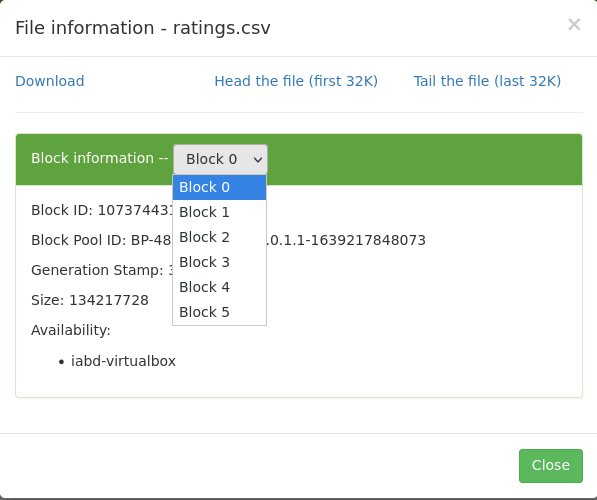
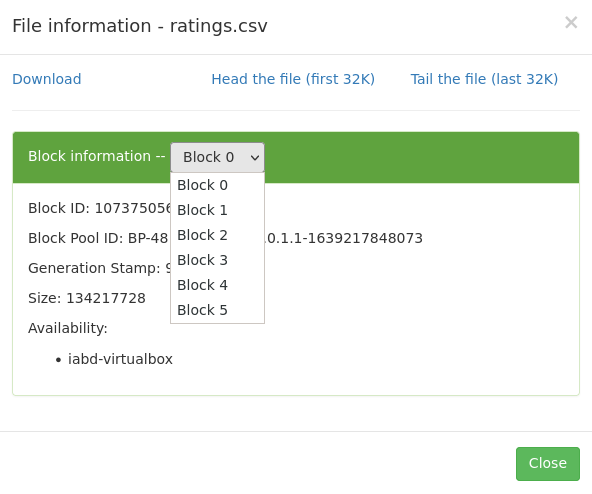
updated blockpool con archivo grande

diff --git a/docs/hadoop/04hdfs.md b/docs/hadoop/04hdfs.md
@@ -203,14 +203,39 @@ Una vez creado subimos el archivo con las calificaciones de las películas:
 hdfs dfs -put ratings.csv  /user/iabd/prueba-hdfs
 ```
 
-Con el fichero subido nos vamos al interfaz gráfico de Hadoop (<http://iabd-virtualbox:9870/explorer.html#/>), localizamos el archivo y obtenemos el *Block Pool ID* del *block information*:
+Si queremos saber cuantos bloques ha creado y cuanto ocupa cada uno de ellos, por ejemplo, podemos utilizar la utilidad `fsck` que permite comprobar la salud del sistema de archivos. Si le pasamos las opciones `-files` y `-blocks` nos mostrará información tanto de los archivos como de los bloques contenidos:
+
+``` bash hl_lines="7"
+iabd@iabd-virtualbox:$ hdfs fsck /user/iabd/prueba-hdfs -files -blocks
+Connecting to namenode via http://iabd-virtualbox:9870/fsck?ugi=iabd&files=1&blocks=1&path=%2Fuser%2Fiabd%2Fprueba-hdfs
+FSCK started by iabd (auth:SIMPLE) from /127.0.0.1 for path /user/iabd/prueba-hdfs at Sun Jan 22 18:11:45 CET 2023
+
+/user/iabd/prueba-hdfs <dir>
+/user/iabd/prueba-hdfs/ratings.csv 678260987 bytes, replicated: replication=1, 6 block(s):  OK
+0. BP-481169443-127.0.1.1-1639217848073:blk_1073750565_9750 len=134217728 Live_repl=1
+1. BP-481169443-127.0.1.1-1639217848073:blk_1073750566_9751 len=134217728 Live_repl=1
+2. BP-481169443-127.0.1.1-1639217848073:blk_1073750567_9752 len=134217728 Live_repl=1
+3. BP-481169443-127.0.1.1-1639217848073:blk_1073750568_9753 len=134217728 Live_repl=1
+4. BP-481169443-127.0.1.1-1639217848073:blk_1073750569_9754 len=134217728 Live_repl=1
+5. BP-481169443-127.0.1.1-1639217848073:blk_1073750570_9755 len=7172347 Live_repl=1
+
+
+Status: HEALTHY
+ Number of data-nodes:  1
+ Number of racks:               1
+ Total dirs:                    1
+ Total symlinks:                0
+...
+```
+
+Si queremos utilizar el interfaz gráfico de Hadoop (<http://iabd-virtualbox:9870/explorer.html#/>), tras localizar el archivo, obtenemos el *Block Pool ID* del *block information*:
 
 <figure style="align: center;">
     <img src="images/04hdfs-ratings-blockpoolid.png" width="500px">
     <figcaption>Identificador de bloque</figcaption>
 </figure>
 
-Si desplegamos el combo de *block information*, podremos ver cómo ha partido el archivo CSV en 5 bloques (566 MB que ocupa el fichero CSV / 128 del tamaño del bloque).
+Si desplegamos el combo de *block information*, podremos ver cómo ha partido el archivo CSV en 6 bloques (650 MB aproximadamente que ocupa el fichero CSV / 128 del tamaño del bloque).
 
 <figure style="align: center;">
     <img src="images/04hdfs-ratings-blocks.png" width="500px">
@@ -223,7 +248,8 @@ Así pues, con el código del *Block Pool Id*, podemos confirmar que debe existi
 iabd@iabd-virtualbox:~$ ls /opt/hadoop-data/hdfs/datanode/current
 BP-481169443-127.0.1.1-1639217848073  VERSION
 ```
-El valor que aparece coincide con el que hemos recuperado en la imagen.
+
+El valor que aparece coincide con el que hemos recuperado tanto en la imagen como mediante `fsck`.
 
 Dentro de este subdirectorio existe otro `finalized`, donde *Hadoop* irá creando una estructura de subdirectorios `subdir` donde albergará los bloques de datos:
 
@@ -233,13 +259,7 @@ total 172
 drwxrwxr-x 2 iabd iabd 20480 dic 22  2021 subdir0
 drwxrwxr-x 2 iabd iabd 20480 dic 22  2021 subdir1
 drwxrwxr-x 2 iabd iabd 20480 dic 22  2021 subdir2
-drwxrwxr-x 2 iabd iabd 12288 feb  9  2022 subdir3
-drwxrwxr-x 2 iabd iabd 20480 mar 16  2022 subdir4
-drwxrwxr-x 2 iabd iabd 20480 mar 16  2022 subdir5
-drwxrwxr-x 2 iabd iabd 12288 nov 28 20:16 subdir6
-drwxrwxr-x 2 iabd iabd 20480 nov 28 20:03 subdir7
-drwxrwxr-x 2 iabd iabd 20480 mar 16  2022 subdir8
-drwxrwxr-x 2 iabd iabd  4096 nov 30 17:31 subdir9
+...
 ```
 
 Una vez en este nivel, vamos a buscar el archivo que coincide con el *block id* poniéndole como prefijo `blk_`:
@@ -247,16 +267,16 @@ Una vez en este nivel, vamos a buscar el archivo que coincide con el *block id* 
 ``` bash hl_lines="3"
 iabd@iabd-virtualbox:~$ cd /opt/hadoop-data/hdfs/datanode/current/BP-481169443-127.0.1.1-1639217848073/current/finalized/subdir0
 iabd@iabd-virtualbox:/opt/hadoop-data/hdfs/datanode/current/BP-481169443-127.0.1.1-1639217848073/current/finalized/subdir0$ \
-> find -name blk_1073744314
+> find -name blk_1073750565
 ```
 
-En mi caso devuelve `./subdir9/blk_1073744314`. De manera que ya podemos comprobar como el inicio del documento se encuentra en dicho archivo:
+En mi caso devuelve `./subdir2/blk_1073750565`. De manera que ya podemos comprobar como el inicio del documento se encuentra en dicho archivo:
 
 ``` bash hl_lines="4"
 iabd@iabd-virtualbox:/opt/hadoop-data/hdfs/datanode/current/BP-481169443-127.0.1.1-1639217848073/current/finalized/subdir0$ \
-> cd subdir9
+> cd subdir2
 iabd@iabd-virtualbox:/opt/hadoop-data/hdfs/datanode/current/BP-481169443-127.0.1.1-1639217848073/current/finalized/subdir0/subdir9$ \
-> head blk_1073744314
+> head blk_1073750565
 userId,movieId,rating,timestamp
 1,296,5.0,1147880044
 1,306,3.5,1147868817
@@ -274,7 +294,7 @@ userId,movieId,rating,timestamp
 Algunas de las opciones más útiles para administrar HDFS son:
 
 * `hdfs dfsadmin -report`: Realiza un resumen del sistema HDFS, similar al que aparece en el interfaz web, donde podemos comprobar el estado de los diferentes nodos.
-* `hdfs fsck`: Comprueba el estado del sistema de ficheros. Si queremos comprobar el estado de un determinado directorio, lo indicamos mediante un segundo parámetro: `hdfs fsck /datos/prueba`
+* `hdfs fsck`: como acabamos de ver, comprueba el estado del sistema de ficheros. Si queremos comprobar el estado de un determinado directorio, lo indicamos mediante un segundo parámetro: `hdfs fsck /datos/prueba`
 * `hdfs dfsadmin -printTopology`: Muestra la topología, identificando los nodos que tenemos y al rack al que pertenece cada nodo.
 * `hdfs dfsadmin -listOpenFiles`: Comprueba si hay algún fichero abierto.
 * `hdfs dfsadmin -safemode enter`: Pone el sistema en modo seguro, el cual evita la modificación de los recursos del sistema de archivos.
@@ -459,6 +479,24 @@ Una vez dentro, por ejemplo, podemos visualizar e interactuar con HDFS:
     <img src="images/04hue-hdfs.png">
     <figcaption>HDFS en Hue</figcaption>
 </figure>
+
+<!--
+1. Abrir DBeaver, y crear una base de datos llamada hue.
+2. Abrir el archivo de configuración de Hue:
+    nano /opt/hue-4.10.0/desktop/conf/hue.ini
+3. En la sección [database], copiar estos valores:
+    engine=mysql
+    host=localhost
+    port=3306
+    user=iabd
+    password=iabd
+    name=hue
+
+4. Guardar el fichero
+5. Ejecutar las migraciones para la creación de las tablas de Hue. Desde la carpeta de Hue:
+    ./build/env/bin/hue migrate
+6. Arrancar Hadoop, HiveServer2 y Hue y probar que funciona.
+-->
 
 ## Referencias
 
